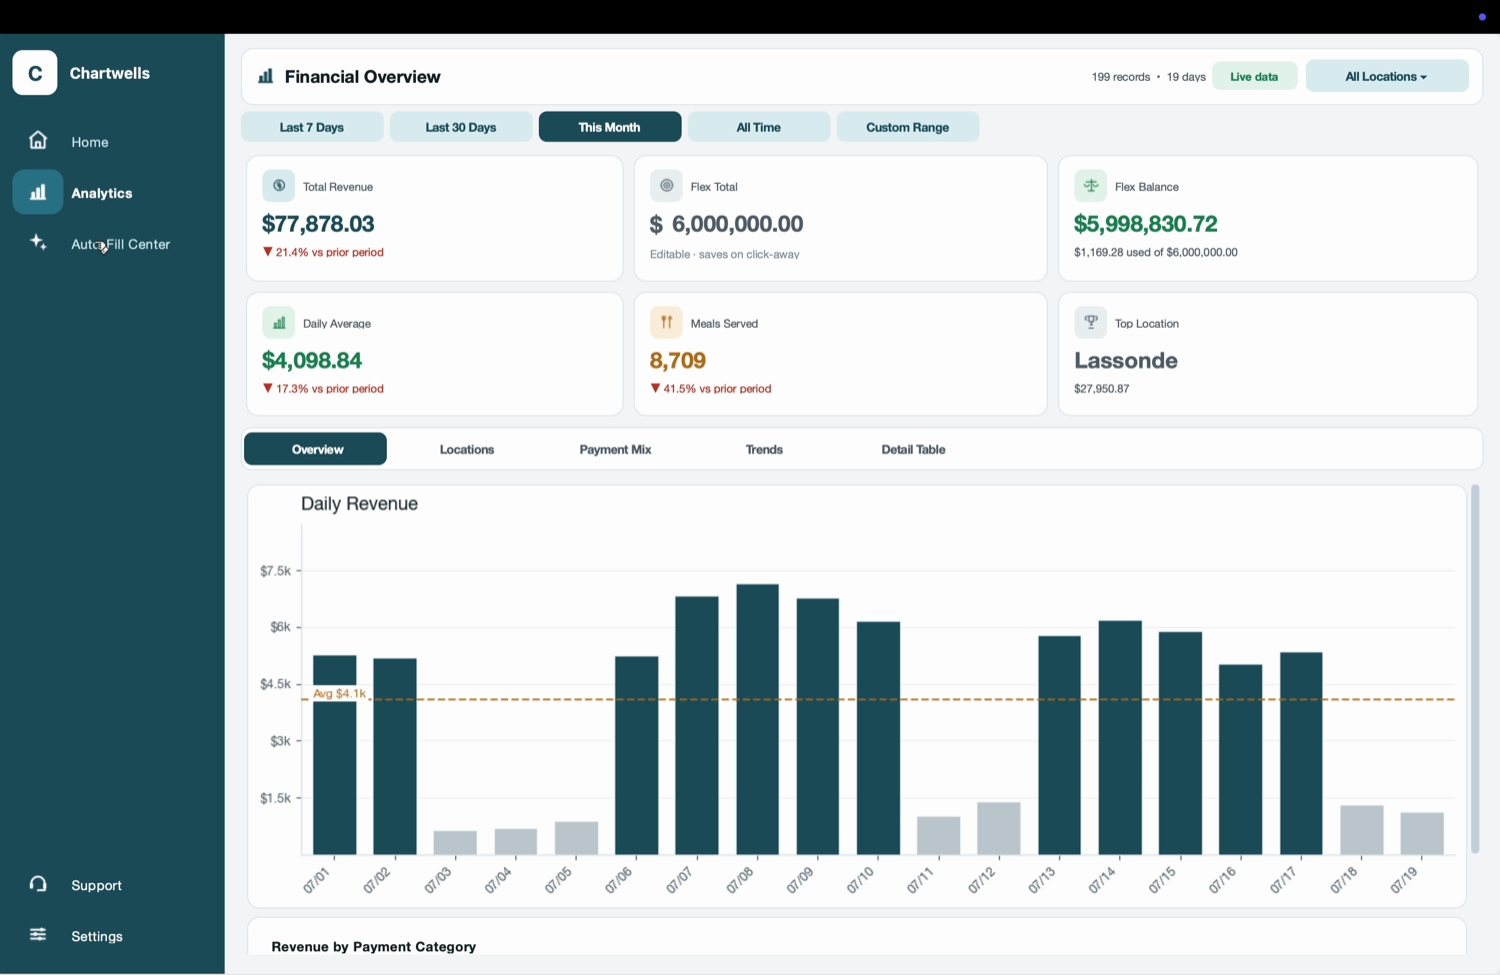
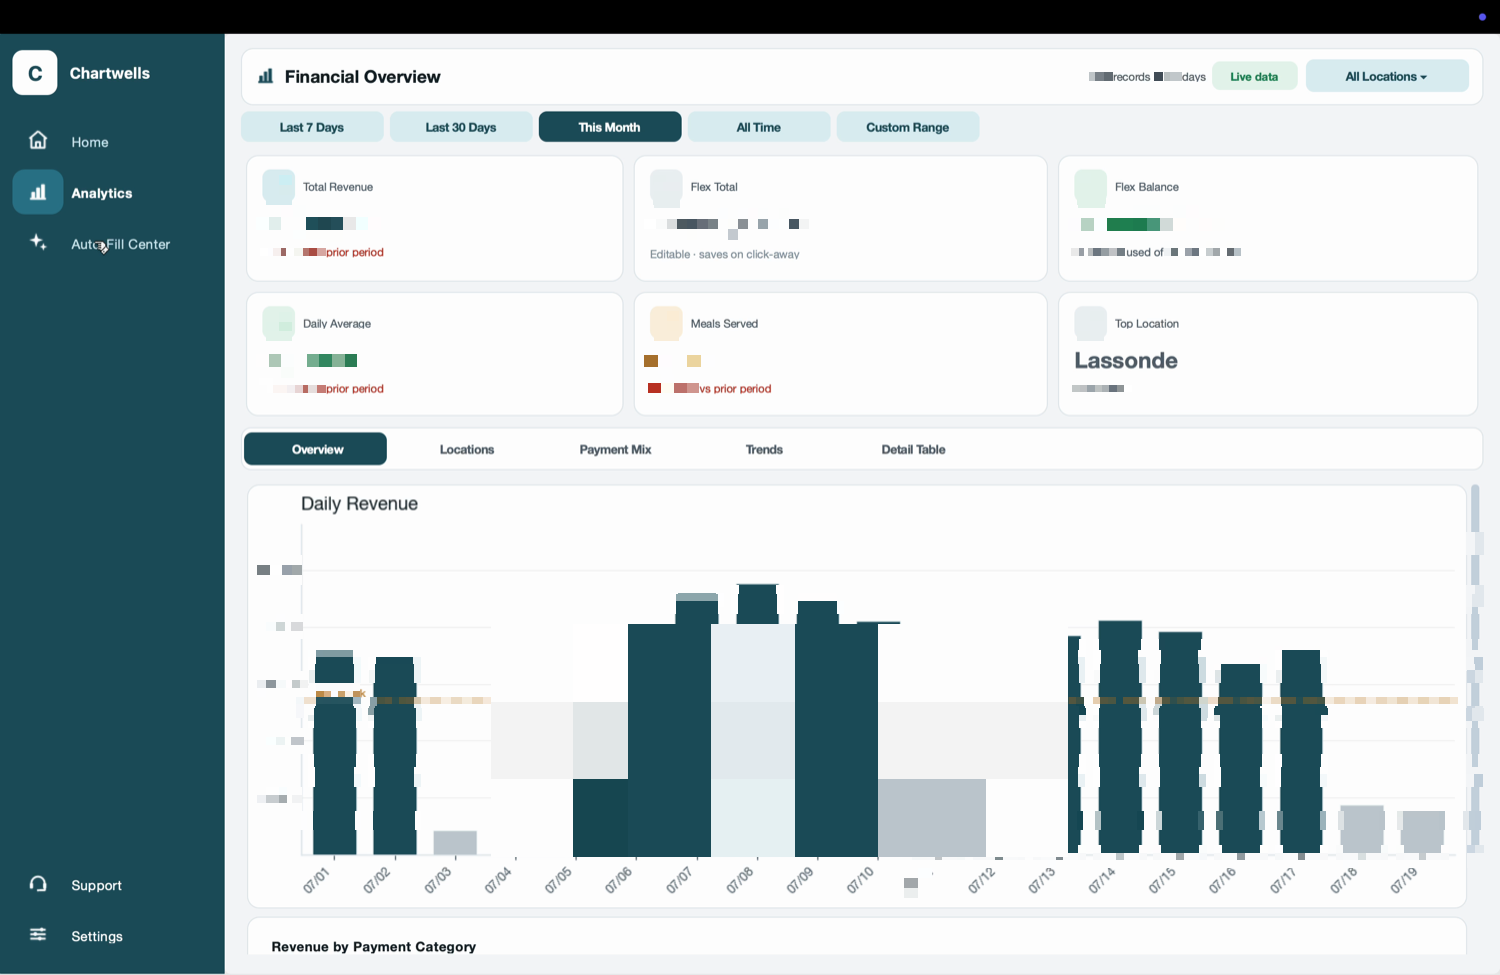
Blur financial figures in README media; add blurred demo GIF
All dollar amounts, counts, balances, and timestamps in the README
screenshots are pixelated, and the demo recording (also redacted) now
leads the README as docs/demo.gif.

diff --git a/README.md b/README.md
@@ -6,7 +6,9 @@ Built for the Chartwells Higher Education dining team at the University of Utah.
 
 > **Impact:** ~30 min/day of manual data entry eliminated per run · 150+ staff hours saved since Nov 2025 · absorbed a data-entry role that was never backfilled.
 
-![Analytics dashboard](docs/screenshots/analytics-overview.png)
+![Demo — analytics dashboard, one-click autofill run, and print options](docs/demo.gif)
+
+*Live demo: analytics dashboard → one-click cash-sheet autofill with a streaming validation log → print options. Dollar figures are blurred for confidentiality.*
 
 ---
 
